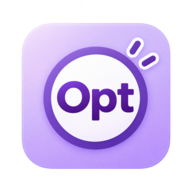
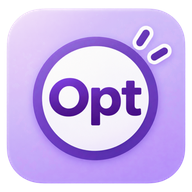
Add files via upload

diff --git a/index.html b/index.html
@@ -7,10 +7,10 @@
   <title>伝説サブレ最適化ツール</title>
   <meta name="description" content="ポケモンスリープの伝説サブレ運用を、現在の在庫・フレンドポイント・残り出会い回数から最適化するツール。">
   <link rel="canonical" href="https://meka-create.github.io/pokemonsleep-sable-opt/">
-  <link rel="manifest" href="./manifest.webmanifest?v=20260929a">
-  <link rel="icon" type="image/png" sizes="32x32" href="./icons/favicon-32.png">
-  <link rel="icon" type="image/png" sizes="192x192" href="./icons/icon-192.png">
-  <link rel="apple-touch-icon" href="./icons/apple-touch-icon.png">
+  <link rel="manifest" href="./manifest.webmanifest?v=20261013a">
+  <link rel="icon" type="image/png" sizes="32x32" href="./icons/favicon-32.png?v=20261013a">
+  <link rel="icon" type="image/png" sizes="192x192" href="./icons/icon-192.png?v=20261013a">
+  <link rel="apple-touch-icon" href="./icons/apple-touch-icon.png?v=20261013a">
   <meta name="theme-color" content="#9333ea">
   <meta name="apple-mobile-web-app-capable" content="yes">
   <meta name="apple-mobile-web-app-status-bar-style" content="default">
@@ -348,6 +348,6 @@
     </div>
   </dialog>
 
-  <script src="./app.js?v=20260929a" defer></script>
+  <script src="./app.js?v=20261013a" defer></script>
 </body>
 </html>

diff --git a/app.js b/app.js
@@ -182,7 +182,7 @@
       if(enc<=0){ state.engine={isCalculating:false,bestMove:{type:'完了',id:null,prob:1},expectedTotal:'0.00',routeData:{route:[],finalG:actualGauge()}}; render(); return; }
       state.engine={...state.engine,isCalculating:true,bestMove:{type:'計算中...',id:null,prob:0}}; render();
       try {
-        worker=new Worker('./solver-worker.js?v=20260929a');
+        worker=new Worker('./solver-worker.js?v=20261013a');
       } catch (error) {
         console.error(error);
         state.engine={isCalculating:false,bestMove:{type:'エラー',id:null,prob:0},expectedTotal:'0.00',routeData:{route:[],finalG:actualGauge()}};
@@ -376,7 +376,7 @@
     window.addEventListener('beforeunload',stopWorker);
     if ('serviceWorker' in navigator && (location.protocol === 'https:' || location.hostname === 'localhost')) {
       window.addEventListener('load', () => {
-        navigator.serviceWorker.register('./sw.js?v=20260929a', { scope: './', updateViaCache: 'none' })
+        navigator.serviceWorker.register('./sw.js?v=20261013a', { scope: './', updateViaCache: 'none' })
           .then((registration) => registration.update())
           .catch((error) => {
             console.error('Service Worker registration failed:', error);

diff --git a/sw.js b/sw.js
@@ -1,15 +1,17 @@
-const CACHE_NAME = 'legendary-sable-opt-v7-update-delivery';
+const CACHE_NAME = 'legendary-sable-opt-v8-maskable-icons';
 const APP_SHELL = [
   './',
   './index.html',
-  './app.js?v=20260929a',
-  './solver-worker.js?v=20260929a',
-  './manifest.webmanifest?v=20260929a',
+  './app.js?v=20261013a',
+  './solver-worker.js?v=20261013a',
+  './manifest.webmanifest?v=20261013a',
   './ogp-card.png',
-  './icons/favicon-32.png',
-  './icons/apple-touch-icon.png',
-  './icons/icon-192.png',
-  './icons/icon-512.png'
+  './icons/favicon-32.png?v=20261013a',
+  './icons/apple-touch-icon.png?v=20261013a',
+  './icons/icon-192.png?v=20261013a',
+  './icons/icon-512.png?v=20261013a',
+  './icons/icon-maskable-192.png?v=20261013a',
+  './icons/icon-maskable-512.png?v=20261013a'
 ];
 const NETWORK_FIRST_PATHS = new Set([
   './index.html',
